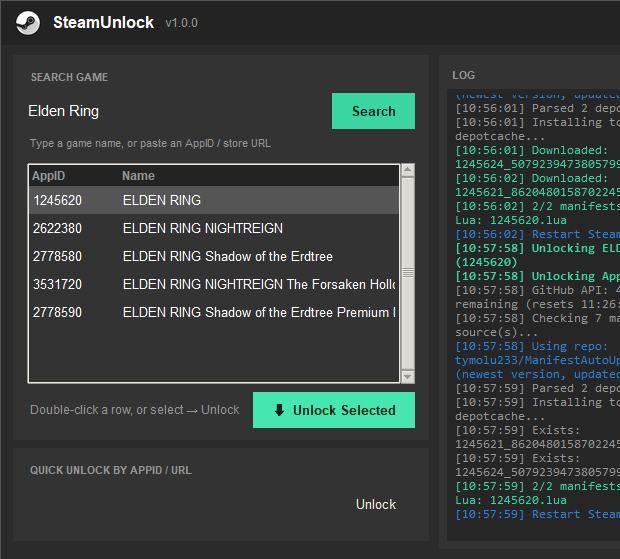
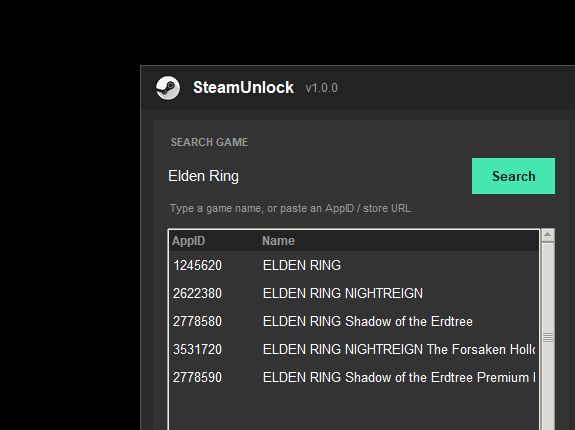
Replace screenshots with proper crops

diff --git a/README.md b/README.md
@@ -16,9 +16,11 @@ So I pulled together a few open-source projects that each solved one piece of th
 
 ## Screenshots
 
-![Floating overlay](screenshots/overlay.png)
+| Overlay icon | Right-click menu |
+|:---:|:---:|
+| ![Overlay icon](screenshots/overlay.png) | ![Right-click menu](screenshots/menu.png) |
+
 ![Main window](screenshots/main.png)
-![Unlock flow](screenshots/unlock.gif)
 
 ---
 